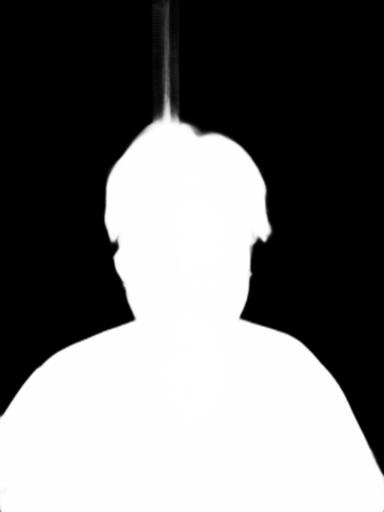
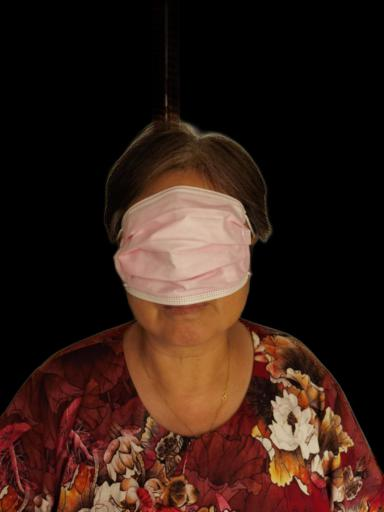
modify remove background code

diff --git a/KSR/remove_background/remove_bg_test.py b/KSR/remove_background/remove_bg_test.py
@@ -11,7 +11,7 @@ output_path = './incorret_mask_background.jpg'
 ImageFile.LOAD_TRUNCATED_IMAGES = True
 
 f = np.fromfile(input_path)
-result = remove(f, only_mask=True, session=None)
+result = remove(f)
 torch.cuda.synchronize()
 img = Image.open(io.BytesIO(result)).convert("RGB")
 img.save(output_path)
